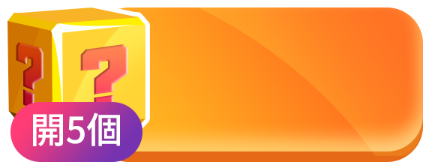
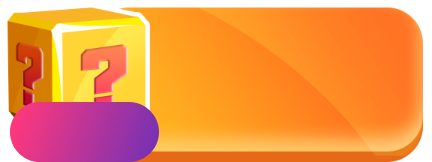
flx

diff --git a/src/pages/detail/index.vue b/src/pages/detail/index.vue
@@ -15,11 +15,12 @@
 						<img src="../../assets/detail/jb.png" />
 						<span>{{ data.price }}</span>
 					</div>
-					<div class="right" @click="btnClick((data.price * 5 * data.x5_rebate) / 100)">
+					<div class="right" @click="btnClick((data.price * data.buynum * data.buyrebate) / 100)">
+						<b class="text">開{{data.buynum}}個</b>
 						<img src="../../assets/detail/jb.png" />
-						<span>{{ (data.price * 5 * data.x5_rebate) / 100 }}</span>
+						<span>{{ (data.price * data.buynum * data.buyrebate) / 100 }}</span>
 						<i><img src="../../assets/detail/tip.png" /></i>
-						<em>原價{{ data.price * 5 }}</em>
+						<em>原價{{ data.price * data.buynum }}</em>
 					</div>
 				</div>
 				<div class="down">
@@ -123,7 +124,6 @@ export default {
 				mbid: this.$route.query.id
 			}).then(res => {
 				this.data = res.data;
-				this.buynum = 
 			});
 		},
 		getUser() {
@@ -146,7 +146,8 @@ export default {
 			} else {
 				if (n != that.data.price) {
 					mysteryBuyfive({
-						mbid: that.$route.query.id
+						mbid: that.$route.query.id,
+						num:that.data.buynum
 					}).then(res => {
 						setTimeout(() => {
 							document.getElementsByClassName('hezi')[0].style.display = 'none';
@@ -156,7 +157,7 @@ export default {
 								that.pop2 = true;
 								that.popData = res.data;
 
-								that.buyType = 5;
+								that.buyType = that.data.buynum;
 							} else {
 								Toast(res.info);
 							}
@@ -205,6 +206,16 @@ export default {
 .delay4 {
 	animation-delay: 1.2s;
 }
+.text{
+    position: absolute;
+    left: 0.1rem;
+        bottom: 0.1rem;
+        width: 1.3rem;
+        text-align: center;
+        font-size: 0.3rem;
+        font-weight: normal;
+
+  }
 .pop {
 	position: fixed;
 	left: 0;

diff --git a/src/serve/index.js b/src/serve/index.js
@@ -99,7 +99,7 @@ export const home = (data) => getForm('/mysteryboxmall/home', data);
 export const detail = (data) => getForm('/mysteryboxmall/detail', data);
 export const myprizeDetail = (data) => getForm('/mysteryboxmall/myprize_detail', data);
 export const mysteryBuyone = (data) => getForm('/mysteryboxmall/mystery_buyone', data);
-export const mysteryBuyfive = (data) => getForm('/mysteryboxmall/mystery_buyfive', data);
+export const mysteryBuyfive = (data) => getForm('/mysteryboxmall/mystery_buyn', data);
 export const prizeVerify = (data) => getForm('/mysteryboxmall/prize_verify', data);
 export const myList = (data) => getForm('/mysteryboxmall/my_prize_list', data);
 export const openMystery = (data) => getForm('/mysteryboxmall/open_mystery', data);
